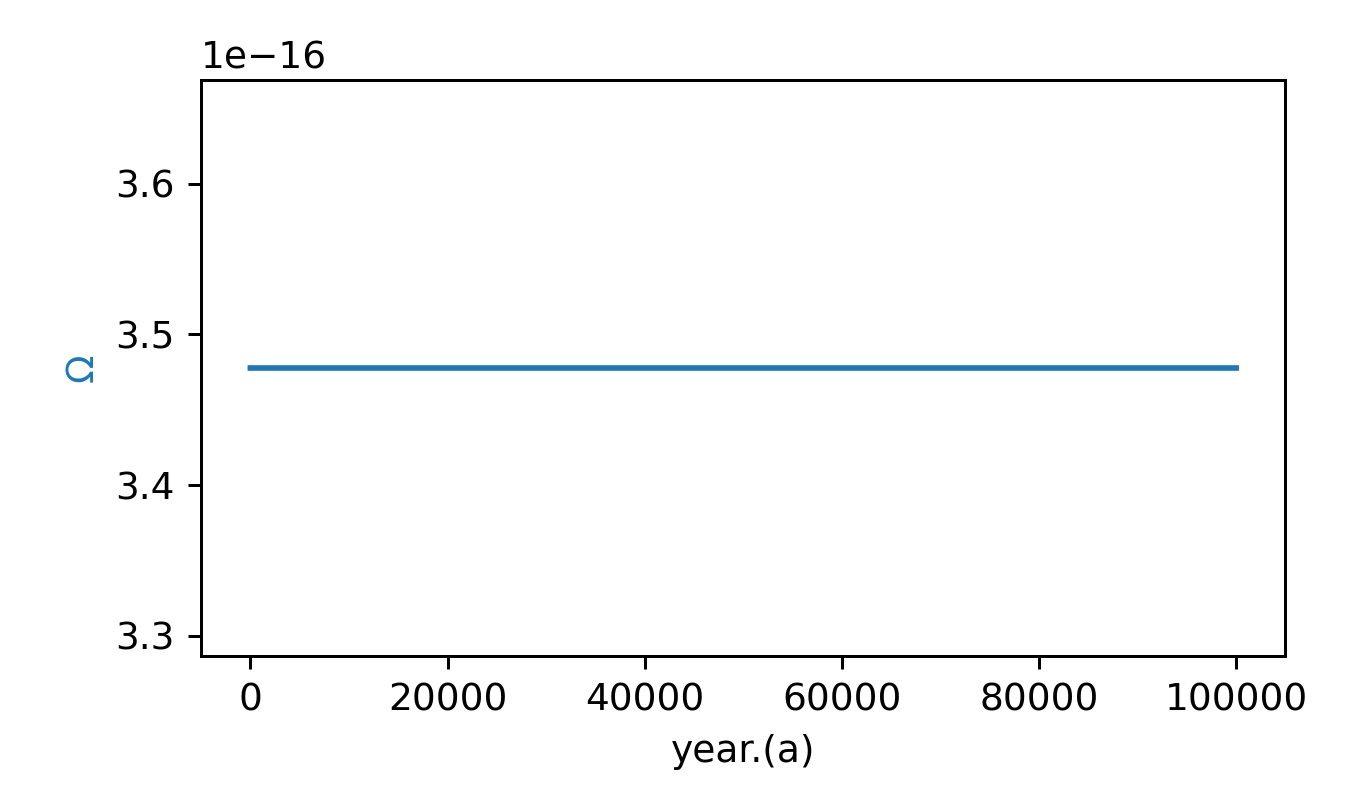
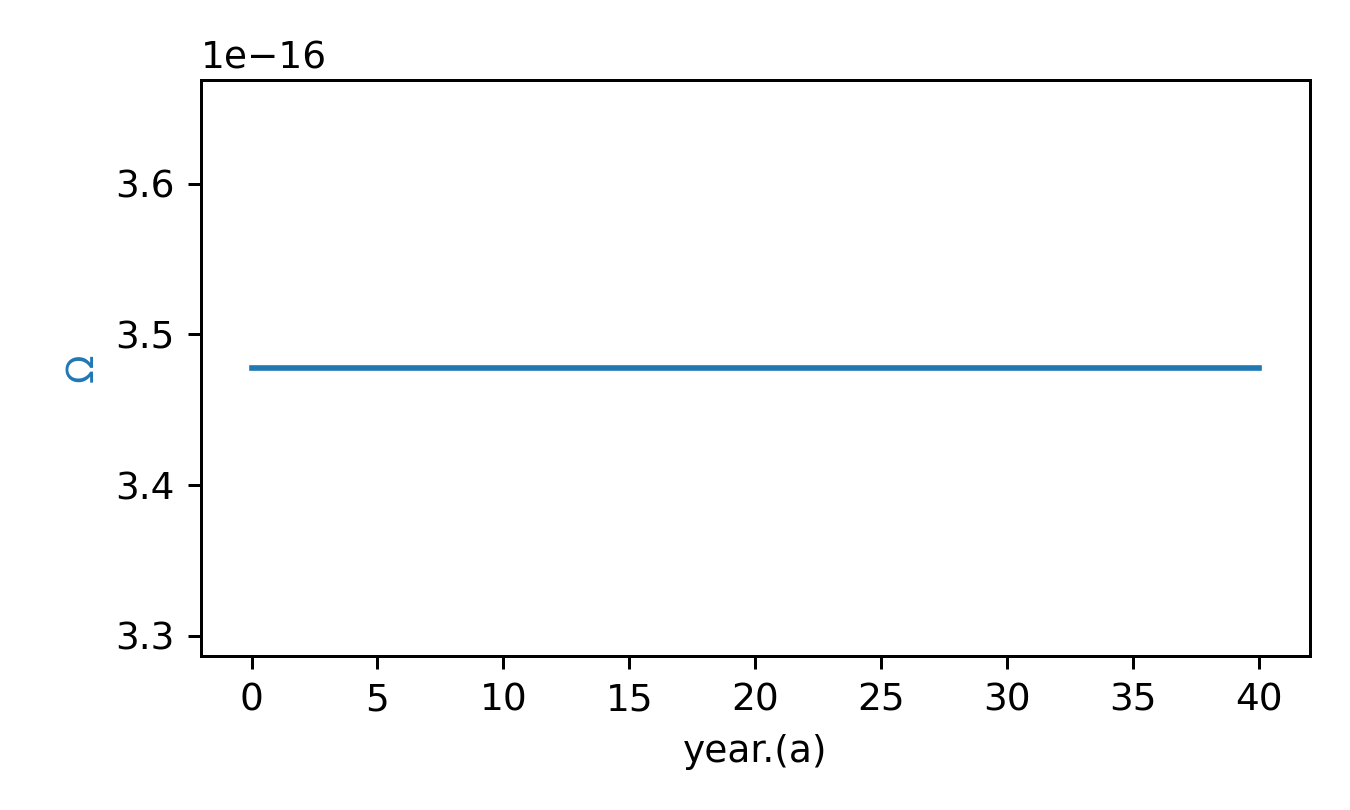
jupyter notebook added

diff --git a/model.py b/model.py
@@ -11,14 +11,16 @@
 # gravity-inversion source directory or at <http://www.gnu.org/licenses/>.
 
 import numpy as np
+import sympy
 from constants import (gravity as g,
 	glen_flow_law as n,
 	ice_density as ρ_I,
 	water_density as ρ_W,
+	bed_density as ρ_b,
 	bedrock_rigidity as D
 	)
 
-def bed(b0,m,L):
+def bed(b0, m, L):
 	r"""
 	return bed elevation at grounding line
 	"""
@@ -31,39 +33,58 @@ def grounding_thickness(b):
 
 	return -ρ_W/ρ_I*b
 
-def interior_flux(L,H,ν,α,n):
+def interior_flux(L, H, ν, α, n):
 	r"""
-	
+	the interior flux of the ice sheet.
 	"""
 
 	return ν*H**α/(L**n)
 
-def grounding_flux(Ω,b0,m,L,β):
+def grounding_flux(Ω, b0, m, L, β):
 	r"""
 	return grounding zone flux
 	"""
 
 	return Ω*grounding_thickness(bed(b0,m,L))**β
 
-def dhdt(S,H,L,b,Q,Qg):
+def dhdt(S, H, L, b, Q, Qg):
 	r"""
 	return change in thickness
 	"""
 	dhdt = S - Qg/L - (H/(grounding_thickness(b)*L))*(Q-Qg)
 	return dhdt
 
-def dLdt(Q,Qg,hg):
+def dLdt(Q, Qg, hg):
     r"""
     description of the change in glacier length
     """
     dLdt = (Q-Qg)/hg
     return dLdt
 
-def dmdt(H,L,H0,L0):
+def dbdt(H, H0, b, b0, S):
+	r"""
+	"""
+	σ=ρ_I * g * (H - H0)
+	return -σ/D
+
+
+def stress_profile(H, L, m, b, x):
+	r"""
+	returns the stress profile of 
+	"""
+	x = sympy.symbols('x', real=True, positive=True)
+	Hg = grounding_thickness(bed(b,m,L))
+	σ_I = ρ_I * g * ((H-Hg) * sympy.sqrt((L-x)/L)+ Hg)
+	σ_W = ρ_W * g * -(m * x + b)
+	return sympy.Piecewise((σ_I,x<=L),(σ_W,x>L))
+
+
+
+def dmdt(H, L, m, H0, L0, m0, b0, D):
 	r"""
 
 	"""
-	
-	Vf=(L0-L)*g*ρ_I
-	dmdt= Vf/D*L0
-	return dmdt
+	x = sympy.symbols('x', real=True, positive=True)
+	Lmax=np.max((L0,L))
+	Vf = sympy.integrate(stress_profile(H,L,m,b0,x) - stress_profile(H0,L0,m0,b0,x),(x,0,Lmax))
+	return -Vf/Lmax/D

diff --git a/simulation.py b/simulation.py
@@ -49,7 +49,7 @@ def initialize_forcing(Sbar, Sσ, Obar, Oσ, N, δS=0.0, δO=0.0, startS=0, endS
 
 	return forcing.Ω(N,Obar,Oσ,δO,startO,endO), forcing.smb(N,Sbar,Sσ,δS,startS,endS)
 
-def equilibrium(H, L, b0, m0, Sbar, Ωbar, N=100000, dt=1.0):
+def equilibrium(H, L, b0, m0, Sbar, Ωbar, N=1000000, dt=1.0):
 	r"""
 	return equilibrium thickness and length
 	"""
@@ -66,34 +66,34 @@ def equilibrium(H, L, b0, m0, Sbar, Ωbar, N=100000, dt=1.0):
 		L = L + dL
 	return H, L
 
-def simulation(H0, L0, m0, b0, Ω, S, N, dt=1.0):
+def simulation(H0, L0, m0, b0, Ω, S, N, D, dt=1.0):
     r"""
     return timeseries of thickness, glacier, length, slope and fluxes.
     """
 
     L = np.zeros(N)
     H = np.zeros(N)
-    b = np.zeros(N)
-    bx = np.zeros(N)
+    M = np.zeros(N)
     Q = np.zeros(N)
     Qg = np.zeros(N)
     Htmp=H0
     Ltmp=L0
     mtmp=m0
+    #btmp=b0
     for t in range(N):
-    	bx[t] = mtmp
+    	M[t] = mtmp
     	H[t] = Htmp
     	L[t] = Ltmp
-    	b= model.bed(b0,mtmp,Ltmp)
+    	b = model.bed(b0,mtmp,Ltmp)
     	Hg= model.grounding_thickness(b)
     	Q[t]=model.interior_flux(Ltmp,Htmp,ν(n,C),α(n),n)
     	Qg[t]=model.grounding_flux(Ω[t],b0,mtmp,Ltmp,β(n))
     	dH=model.dhdt(S[t]/year,Htmp,Ltmp,b,Q[t],Qg[t])*dt*year
     	dL=model.dLdt(Q[t],Qg[t],Hg)*dt*year
-    	dm=model.dmdt(Htmp,Ltmp,H0,L0)*dt*year
+    	dm=model.dmdt(Htmp,Ltmp,mtmp,H0,L0,m0,b0,D)*dt*year
     	mtmp=mtmp + dm
     	Htmp = Htmp + dH
     	Ltmp = Ltmp + dL
 
-    return H,L,bx,Q,Qg
+    return H,L,M,Q,Qg
 

diff --git a/constants.py b/constants.py
@@ -26,10 +26,13 @@ glen_flow_law = 3.0
 gravity = 9.81
 
 #: density of ice
-ice_density = 917
+ice_density = 917.
 
 #: density of seawater
-water_density = 1028
+water_density = 1028.
+
+#: density of bedrock
+bed_density = 3300.
 
 #: glen flow coefficient
 glen_coefficient = 4.22e-25
@@ -41,4 +44,7 @@ friction_coefficient = 7.624e6
 theta = 0.7
 
 #: bedrock rigidity
-bedrock_rigidity = 1e24
+bedrock_rigidity = 1e20
+
+#: response time
+response_time = 3000

diff --git a/run.py b/run.py
@@ -16,7 +16,7 @@ import matplotlib.pyplot as plt
 
 
 # Simulation parameters
-N = 100000
+N = 40
 Sbar = .5
 Sσ = Sbar/1.
 Obar = forcing.Ωbar(C,A,θ,simulation.m(n))
@@ -41,6 +41,8 @@ m0=-2e-3
 H0,L0=simulation.equilibrium(1413,184000,b0,m0,Sbar,Obar)
 print(H0)
 print(L0)
+
+
 
 H,L,m,Q,Qg=simulation.simulation(H0,L0,m0,b0,Ω,smb,N)
 

diff --git a/README.md b/README.md
@@ -7,3 +7,7 @@ Code, scripts and preprint for study on viscoelastic coupling of the solid earth
 python
 
 python-numpy, python-scipy
+
+sympy
+
+jupyter
